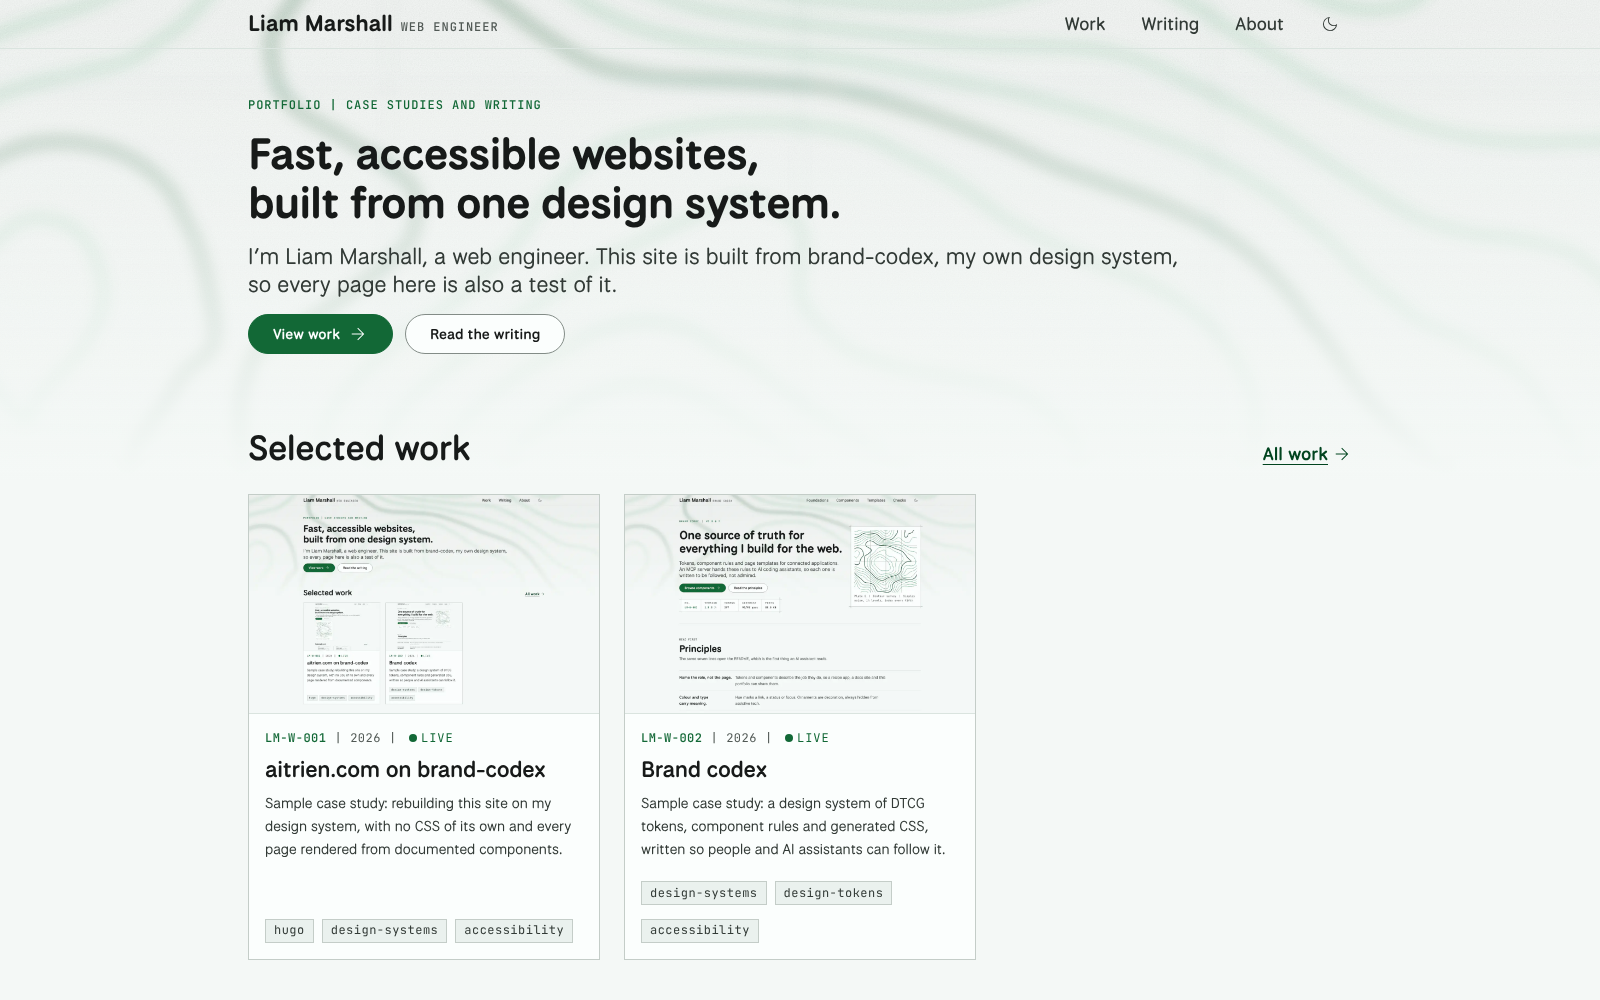
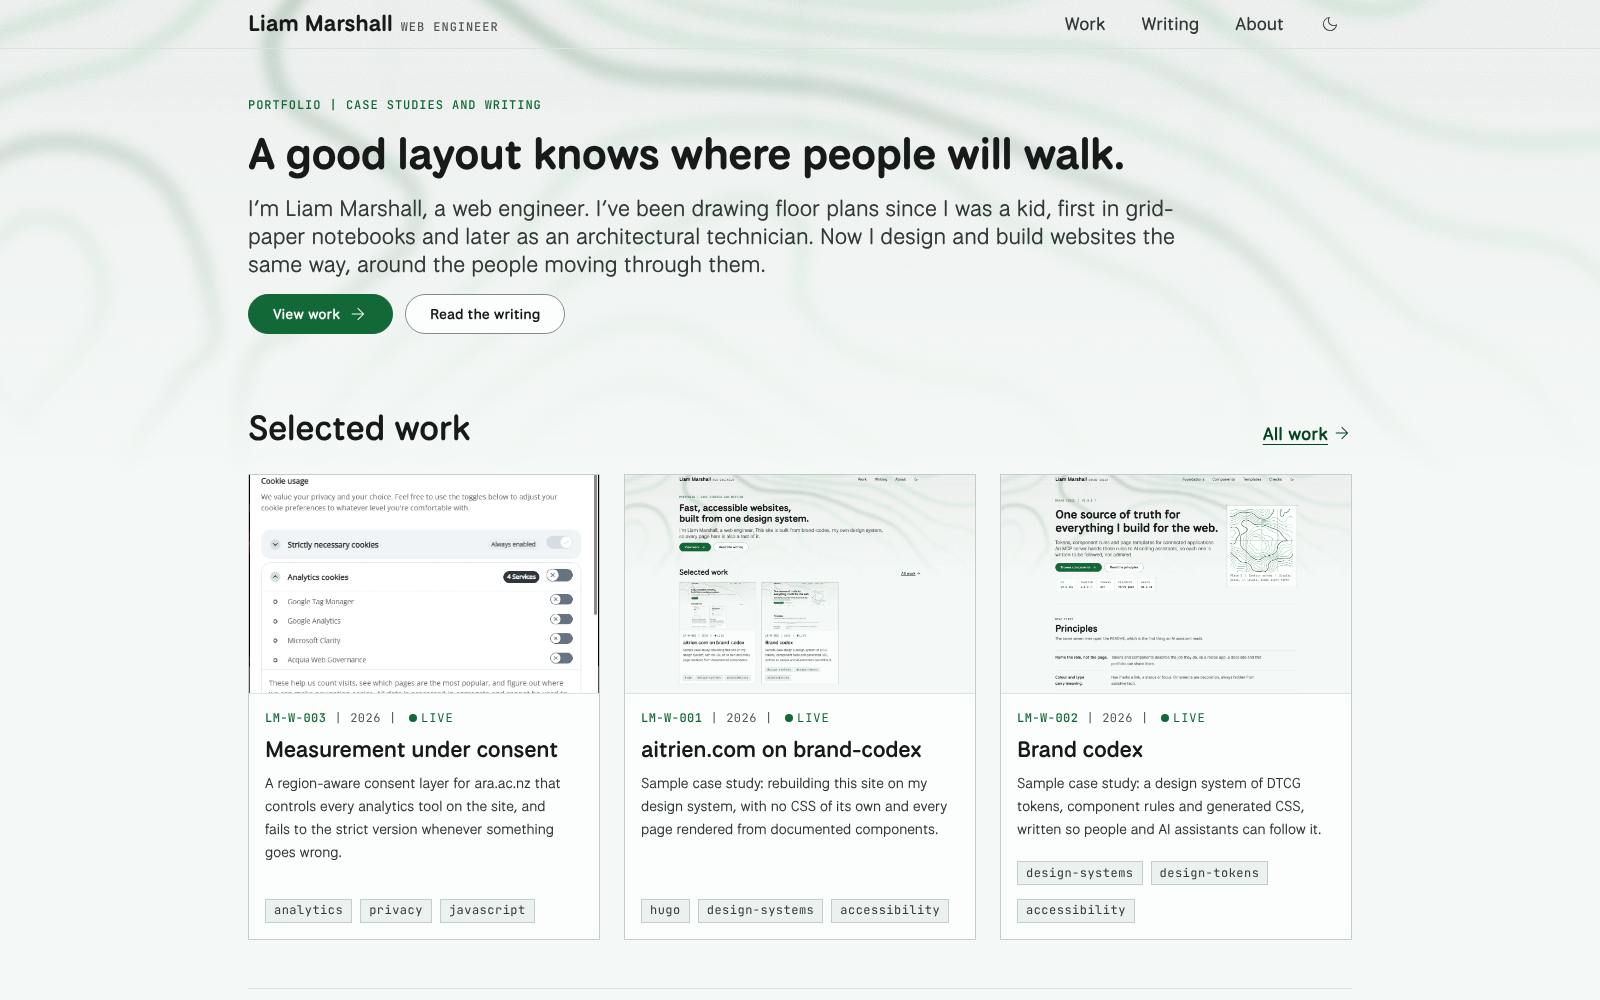
Home title and summary, About page, and the warehouse post's ending
- Home: "A good layout knows where people will walk." with a summary that
  tells the floor-plan story; site description widened to match.
- About: replaces the placeholder with the grid-paper, architectural
  technician and Ara story.
- LM-P-005: where it stopped and what I'd do differently, from Liam's account.
- aitrien-com hero retaken with the new home page.

Claude-Session: https://claude.ai/code/session_01Twm6kJNAmEqS7ANipDVSQJ

diff --git a/content/about/_index.md b/content/about/_index.md
@@ -1,17 +1,23 @@
 ---
 title: About
-intro: Lorem ipsum dolor sit amet, consectetur adipiscing elit.
+intro: I design spaces for people to move through. For most of my life they were houses. Now they’re websites.
 outputs: [html]
 ---
 
-Lorem ipsum dolor sit amet, consectetur adipiscing elit. Sed do eiusmod tempor incididunt ut labore et dolore magna aliqua. Ut enim ad minim veniam, quis nostrud exercitation ullamco laboris nisi ut aliquip ex ea commodo consequat.
+I'm Liam Marshall, a web engineer. The part of the work I enjoy most is UX and UI design: deciding how a page is laid out, and imagining the people moving through it.
 
-## Lorem ipsum
+## Floor plans first
 
-Duis aute irure dolor in reprehenderit in voluptate velit esse cillum dolore eu fugiat nulla pariatur. Excepteur sint occaecat cupidatat non proident, sunt in culpa qui officia deserunt mollit anim id est laborum.
+As a kid I designed houses in The Sims, and filled grid-paper notebook after notebook with floor plans. The part I loved was picturing someone walking through them: where they would come in, where they would go next, and what might get in their way.
 
-## Dolor sit amet
+## From houses to websites
 
-Sed ut perspiciatis unde omnis iste natus error sit voluptatem accusantium doloremque laudantium, totam rem aperiam, eaque ipsa quae ab illo inventore veritatis et quasi architecto beatae vitae dicta sunt explicabo.
+I studied computer science at the University of Canterbury. Soon after graduating I stepped into a role as an architectural technician, drawing bespoke homes across North Canterbury. I turned clients' briefs into floor plans and elevations, proposed alternatives when a design ran over budget, and made sure every plan met the building code.
 
-Nemo enim ipsam voluptatem quia voluptas sit aspernatur aut odit aut fugit, sed quia consequuntur magni dolores eos qui ratione voluptatem sequi nesciunt.
+In 2022 I moved to the web, at Ara Institute of Canterbury. I maintained and extended the institute's website of about 2,000 pages, and looked after the analytics, consent and quality monitoring around it. The work turned out to be remarkably similar. A brief becomes requirements, a budget becomes trade-offs, and the building code becomes standards like WCAG.
+
+## What I work on now
+
+I build websites and the systems behind them, designed around the people who use them. This site is built from [brand-codex](/work/brand-codex/), my own design system, so every page here is also a test of it. You can see the rest of my work in [Work](/work/), and read about how I approach it in [Writing](/writing/).
+
+My code is on [GitHub](https://github.com/Aitrien).

diff --git a/content/writing/the-cheapest-warehouse/index.md b/content/writing/the-cheapest-warehouse/index.md
@@ -31,10 +31,10 @@ We kept the data in BigQuery. The cheapest warehouse was the one we already had.
 
 ## Where it stopped
 
-The last stage, connecting the data to Power BI, is where the project stalled. More pressing work came in, and it went to the backlog.
+This was a side project. I led it across the web and data teams because I wanted marketing to have better data, and it was never anyone's main priority, so we worked on it when the main work eased off.
 
-The decision still holds. Whenever the dashboards are built, the history they need is the part that was cheapest to keep.
+The last stage, connecting the data to Power BI, is where it stalled. Then the people behind it moved on. Our data engineer left, then one of the two data analysts on the performance team, and within a year I had left too. With nobody left to carry it, the project was abandoned, even though I still think it would have been very valuable to Ara.
 
 ## What I'd do differently
 
-I would start from the dashboard and work backwards. One report that marketing actually used, even fed by a manual export, would have shown which data mattered and kept the project moving. We designed the pipeline first, and one stage of it turned out not to be needed at all.
+The technical decisions held up. What the project lacked was ownership that didn't depend on the people doing the work. I would ask a project leader to help set the goals, hold regular check-ins, and keep us accountable to it. A side project needs that more than a main one, because nothing else keeps it moving, and because it has to survive people leaving.

diff --git a/content/_index.md b/content/_index.md
@@ -1,7 +1,7 @@
 ---
-title: Fast, accessible websites, built from one design system.
+title: A good layout knows where people will walk.
 eyebrow: Portfolio | Case studies and writing
-summary: I'm Liam Marshall, a web engineer. This site is built from brand-codex, my own design system, so every page here is also a test of it.
+summary: I'm Liam Marshall, a web engineer. I've been drawing floor plans since I was a kid, first in grid-paper notebooks and later as an architectural technician. Now I design and build websites the same way, around the people moving through them.
 ---
 
 | Area | What I do | Evidence |
